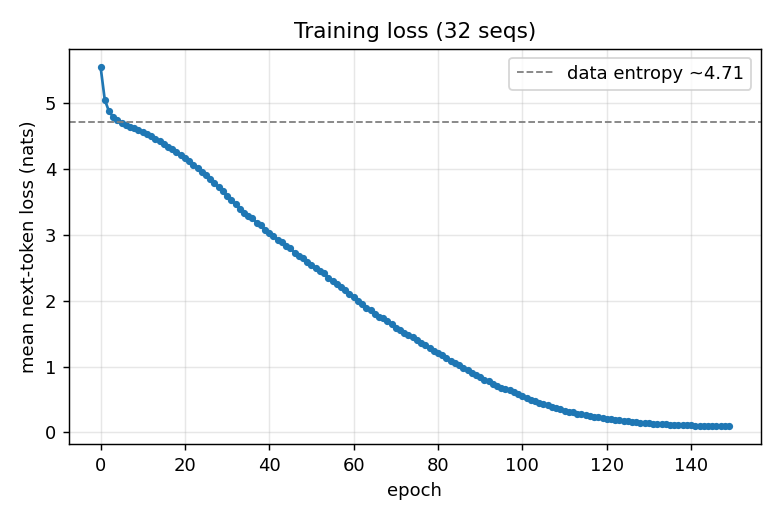
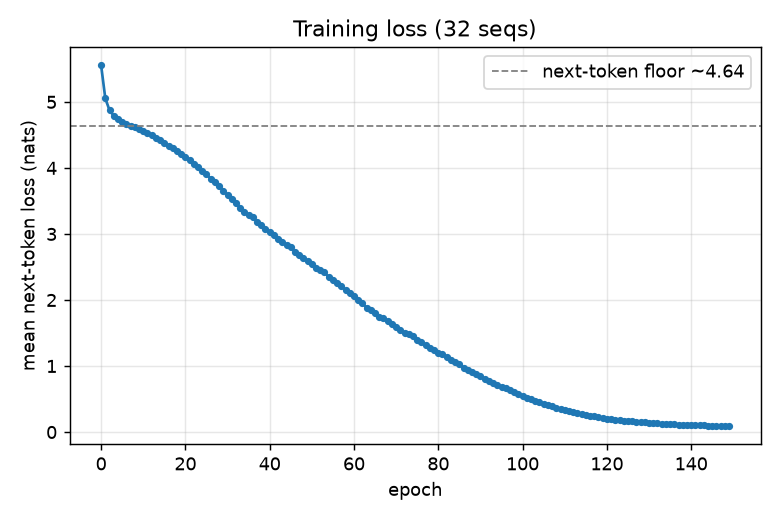
docs: correct entropy floor, refresh report and benchmarks
The reported loss averages over the 63 next-token targets of a length-64
sequence whose final target is a deterministic EOS (loss ~0). The floor is
therefore (62/63)*4.711 ~= 4.637 nats, not the per-body-token entropy 4.711.
Fix the report's calculation, the train_toy floor line, and the loss figures
(redrawn from stored checkpoint losses).

Also update the report to reflect the batched cached path, the EOS handling,
and the direct key/value validation; refresh the batch-1 benchmark numbers
(now routed through the general batched path) and add a batched benchmark
(benchmark.py --batch) showing the cached speedup grows with batch size as the
per-step Python overhead is amortized (4.4x at B=8, 128 tokens).

Claude-Session: https://claude.ai/code/session_01VwY7yA8vFMC7Ya2M74KzP5

diff --git a/benchmark.py b/benchmark.py
@@ -19,12 +19,14 @@ import matplotlib.pyplot as plt
 import torch
 
 from hourglass import HourglassLM
-from inference import greedy_decode_cached, greedy_decode_naive, load_trained
+from inference import (greedy_decode_cached, greedy_decode_cached_batched,
+                       greedy_decode_naive, load_trained)
 from tokenizer import Tokenizer
 
 FIG_TIME = "docs/figures/benchmark_time.png"
 FIG_SPEEDUP = "docs/figures/benchmark_speedup.png"
 RESULTS = "docs/figures/benchmark_results.json"
+BATCHED_RESULTS = "docs/figures/benchmark_batched_results.json"
 
 
 def _time_it(fn, repeats=1):
@@ -50,6 +52,24 @@ def run(model, tok, lengths, repeats=2):
         rows.append({"length": T, "naive_s": t_naive, "cached_s": t_cached,
                      "speedup": t_naive / t_cached})
         print(f"len {T:4d}: naive {t_naive:7.3f}s  cached {t_cached:7.3f}s  "
+              f"speedup {t_naive/t_cached:5.2f}x")
+    return rows
+
+
+def run_batched(model, tok, lengths, batch, repeats=2):
+    """Time naive vs KV-cached greedy decoding for a batch of `batch` sequences."""
+    prompt = torch.full((1, batch), tok.sos_id)
+    rows = []
+    for T in lengths:
+        t_naive = _time_it(
+            lambda: greedy_decode_naive(model, tok, prompt, T, stop_on_eos=False),
+            repeats)
+        t_cached = _time_it(
+            lambda: greedy_decode_cached_batched(model, tok, prompt, T, stop_on_eos=False),
+            repeats)
+        rows.append({"length": T, "batch": batch, "naive_s": t_naive,
+                     "cached_s": t_cached, "speedup": t_naive / t_cached})
+        print(f"B={batch} len {T:4d}: naive {t_naive:7.3f}s  cached {t_cached:7.3f}s  "
               f"speedup {t_naive/t_cached:5.2f}x")
     return rows
 
@@ -92,6 +112,8 @@ def main():
                     default=[16, 32, 64, 96, 128, 192, 256])
     ap.add_argument("--repeats", type=int, default=2)
     ap.add_argument("--threads", type=int, default=1)
+    ap.add_argument("--batch", type=int, default=1,
+                    help="if > 1, also benchmark batched decoding at this size")
     args = ap.parse_args()
 
     torch.set_num_threads(args.threads)
@@ -111,6 +133,13 @@ def main():
     with open(RESULTS, "w", encoding="utf-8") as f:
         json.dump(rows, f, indent=2)
     print(f"saved {FIG_TIME}, {FIG_SPEEDUP}, {RESULTS}")
+
+    if args.batch > 1:
+        print(f"\nbatched decoding (B={args.batch}):")
+        brows = run_batched(model, tok, args.lengths, args.batch, args.repeats)
+        with open(BATCHED_RESULTS, "w", encoding="utf-8") as f:
+            json.dump(brows, f, indent=2)
+        print(f"saved {BATCHED_RESULTS}")
 
 
 if __name__ == "__main__":

diff --git a/train_toy.py b/train_toy.py
@@ -2,10 +2,12 @@
 
 The generated sequences are intentionally random (uniform x-tokens, random
 boundaries), so on the full set next-token loss cannot approach zero without
-enormous capacity; it floors at the data entropy (~4.71 nats). The point is to
-obtain a genuinely *trained* small model to exercise KV caching. Training uses
-batch size 1 (exact pooling; no ragged-batch padding) with gradient
-accumulation.
+enormous capacity. Each body token has entropy ~4.71 nats, but the mean
+next-token loss also averages in the fixed sequence's final position, which is a
+deterministic EOS (loss ~0). Over the 63 targets of a length-64 sequence the
+floor is therefore (62/63)*4.71 ~= 4.64 nats, not 4.71. The point is to obtain a
+genuinely *trained* small model to exercise KV caching. Training uses batch
+size 1 (exact pooling; no ragged-batch padding) with gradient accumulation.
 
 Defaults below are the hardcoded configuration. CLI flags only override them,
 e.g. `--subset 32 --epochs 300` demonstrates true overfitting (loss -> 0) on a
@@ -36,6 +38,10 @@ EPOCHS = 20
 ACCUM = 20          # sequences per optimizer step
 LR = 3e-4
 SEED = 0
+# Mean next-token loss floor: per-body-token entropy 4.7113 nats averaged over
+# the 63 targets of a length-64 sequence whose last target is a deterministic
+# EOS (loss 0): (62/63) * 4.7113 ~= 4.637 nats.
+ENTROPY_FLOOR = 4.637
 
 
 def latest_dataset(root="tokenizer_data"):
@@ -101,7 +107,8 @@ def train(epochs=EPOCHS, lr=LR, accum=ACCUM, seed=SEED, subset=None,
 
     plt.figure(figsize=(6, 4))
     plt.plot(range(len(losses)), losses, marker="o", ms=3)
-    plt.axhline(4.71, color="gray", ls="--", lw=1, label="data entropy ~4.71")
+    plt.axhline(ENTROPY_FLOOR, color="gray", ls="--", lw=1,
+                label=f"next-token floor ~{ENTROPY_FLOOR:.2f}")
     plt.xlabel("epoch")
     plt.ylabel("mean next-token loss (nats)")
     plt.title(f"Training loss ({n} seqs)")

diff --git a/docs/report.md b/docs/report.md
@@ -80,8 +80,8 @@ pooled tensor (`cumsum` of the finer event).
 **Naive** (`forward`) recomputes the entire prefix every step; it is the
 reference and is used for training.
 
-**Cached** (`step` / `cached_forward`, batch size 1) keeps a KV cache per layer
-per stack and advances each stack at its own rate:
+**Cached** (`step_batched` / `cached_forward_batched`, any batch size) keeps a
+KV cache per layer per stack and advances each stack at its own rate:
 
 - token stacks advance every token;
 - level-1 stacks every level-1/2/3 event;
@@ -91,9 +91,24 @@ per stack and advances each stack at its own rate:
 Group means are maintained incrementally; when `group()` closes a group, the new
 compressed representation is pushed through the next stack and becomes visible at
 that position, mirroring the naive causal pooling exactly. The incremental
-relative-attention step computes a single query against all cached keys using
-positional distances `L-1..0`, which reproduces the last row of the naive
+relative-attention step computes a single query against the cached keys using
+positional distances `L-1..0`, reproducing the last row of the naive
 `_rel_shift` attention.
+
+**Batching.** Different sequences group at different times, so each shortened
+stack holds a *ragged* set of real groups across the batch. They share one
+preallocated cache per layer: on any step where at least one member closes a
+group, all members append a slot — real for those that closed, padding for the
+rest. Each query attends only to its own real slots (a per-sequence key mask) at
+its own ordinal distances (a per-sequence relative-position gather), so the
+batched cached attention is identical to the naive dense attention for every
+member. Caches are preallocated to the known decode length (or grown by doubling
+when streaming), avoiding a per-step `torch.cat`. The batch-size-1 `step` /
+`cached_forward` are thin wrappers over the batched path.
+
+**EOS.** Both the naive and cached batched decoders stop each member
+independently: once a member emits `EOS` its tail is frozen and it is dropped
+from further cache updates (an `active` mask) while the others keep decoding.
 
 ## 6. Correctness
 
@@ -108,6 +123,15 @@ All checks run with dropout disabled and deterministic `group()` boundaries.
   identical token sequences and identical per-step logits
   (`tests/test_inference.py`), and both track `x_seq` and `b1/b2/b3_seq` via
   `group()`.
+- **Batched cache == naive** — `cached_forward_batched` matches the naive
+  `forward` for `B>1` with divergent grouping across the batch (max |Δ| ~7e-7),
+  including zero-layer stacks, and each member is independent of its batch-mates
+  (`tests/test_batched_decode.py`).
+- **Cached keys/values == naive** — the cached K/V *buffers themselves* (not
+  only the final logits) match the naive path's per-stack keys and values, per
+  member, aligned on each member's real (non-padding) slots.
+- **EOS handling** — the naive and cached batched decoders match per-sequence
+  decoding and freeze members that emit `EOS` early instead of extending them.
 
 <!-- TRAINING AND BENCHMARK RESULTS FILLED IN BELOW -->
 
@@ -116,23 +140,33 @@ All checks run with dropout disabled and deterministic `group()` boundaries.
 `train_toy.py` fits a small model (d_model 64, layers `2/2/1/1/1/2/2`, ~448k
 params) at batch size 1 with gradient accumulation.
 
-The generated sequences are random by construction, so the next-token
-distribution has entropy
+The generated sequences are random by construction, so each **body** token is
+drawn from a fixed distribution with entropy
 
 ```
-H = -(256 * (0.69/256) log(0.69/256) + 0.20 log 0.20 + 0.08 log 0.08
-      + 0.03 log 0.03) ~= 4.71 nats
+H_body = -(256 * (0.69/256) log(0.69/256) + 0.20 log 0.20 + 0.08 log 0.08
+           + 0.03 log 0.03) ~= 4.711 nats
 ```
 
-On the full 1000-sequence set the model reaches this floor within ~2 epochs
-(learning the boundary-token marginal) and then dips slightly below it via
-memorization, ending at **4.58 nats** after 20 epochs
-(`docs/figures/train_loss.png`). This is the expected behavior; the checkpoint
-`checkpoints/toy.pt` is simply a realistic set of weights for the cache demo.
+The reported loss, however, is the mean over all 63 next-token targets of a
+length-64 sequence, and the **final** target is always `EOS` at a fixed
+position — a deterministic event contributing ~0 nats. The mean next-token loss
+floor is therefore
+
+```
+floor = (62 * H_body + 1 * 0) / 63 = (62/63) * 4.711 ~= 4.637 nats
+```
+
+not `H_body` itself. On the full 1000-sequence set the model reaches this floor
+within ~2 epochs (learning the boundary-token marginal and the terminal `EOS`)
+and then dips slightly below it via memorization, ending at **4.583 nats** after
+20 epochs (`docs/figures/train_loss.png`) — below the 4.637 floor, as expected
+for a memorizing model. The checkpoint `checkpoints/toy.pt` is simply a
+realistic set of weights for the cache demo.
 
 To show the training loop *can* overfit when the data is memorizable, a run on
-32 sequences drives loss from 5.55 down to **0.09 nats**, far below the entropy
-floor (`docs/figures/overfit32_loss.png`).
+32 sequences drives loss from 5.56 down to **0.09 nats**, far below the floor
+(`docs/figures/overfit32_loss.png`).
 
 `demo_decode.py` loads the checkpoint, decodes, and confirms cached == naive.
 Greedy decoding collapses to the modal token `b1` (marginal 0.20 exceeds any
@@ -149,26 +183,46 @@ length L) versus `O(T^2)` for the cache.
 
 | tokens | naive (s) | cached (s) | speedup |
 | ---: | ---: | ---: | ---: |
-| 16  | 0.176 | 0.097 | 1.81x |
-| 32  | 0.364 | 0.198 | 1.84x |
-| 64  | 0.749 | 0.342 | 2.19x |
-| 96  | 1.130 | 0.519 | 2.18x |
-| 128 | 1.610 | 0.695 | 2.32x |
-| 192 | 2.687 | 1.045 | 2.57x |
-| 256 | 4.520 | 1.497 | 3.02x |
+| 16  | 0.231 | 0.153 | 1.51x |
+| 32  | 0.486 | 0.309 | 1.57x |
+| 64  | 0.935 | 0.537 | 1.74x |
+| 96  | 1.484 | 0.690 | 2.15x |
+| 128 | 1.890 | 1.104 | 1.71x |
+| 192 | 3.486 | 1.566 | 2.23x |
+| 256 | 5.528 | 2.070 | 2.67x |
 
 The naive curve is visibly super-linear while the cached curve is near-linear
 (`docs/figures/benchmark_time.png`, `benchmark_speedup.png`); the speedup grows
-with length (3.0x at 256 tokens). The absolute gap is moderated here by the tiny
-model on CPU — per-step Python overhead is a large fraction of the work — but the
-scaling separation is the point, and it widens with sequence length and model
-size.
+with length (~2.7x at 256 tokens; the 128 row is timing noise). The absolute gap
+is moderated here by the tiny model on CPU — per-step Python overhead is a large
+fraction of the work — but the scaling separation is the point, and it widens
+with sequence length and model size.
+
+**Batched decoding** (`benchmark.py --batch 8`, `benchmark_batched_results.json`)
+decodes a batch of eight sequences at once with the naive and batched-cached
+paths:
+
+| tokens | naive (s) | cached (s) | speedup |
+| ---: | ---: | ---: | ---: |
+| 16  | 0.232 | 0.143 | 1.62x |
+| 32  | 0.504 | 0.279 | 1.81x |
+| 64  | 1.317 | 0.662 | 1.99x |
+| 128 | 5.335 | 1.202 | 4.44x |
+
+The batched speedup is *larger* than at batch 1 (4.4x at 128 tokens) because one
+Python decode step now drives all eight sequences, so the per-step interpreter
+overhead — the main cost for this tiny model on CPU — is amortized across the
+batch while the naive path still pays a full `O(L^2)` recompute per step.
 
 ## 9. Notes and limitations
 
-- The cached path is batch size 1, as planned; batched asynchronous grouping is
-  future work.
+- The cached path now supports batches: each shortened stack keeps a ragged set
+  of per-member groups in one shared, masked cache (see §5). Because the shared
+  cache appends a slot whenever *any* member closes a group, a large batch with
+  frequent boundaries approaches one slot per token; the ragged compute is still
+  correct but its memory benefit shrinks as the batch grows.
 - The generated sequences are random by construction, so next-token loss floors
-  at the data entropy rather than zero (see Training).
-- The environment is CPU-only; FlashAttention-2 and GPU training are out of
-  scope for this stage.
+  at ~4.64 nats (the per-token entropy averaged with the deterministic final
+  `EOS`; see Training) rather than zero.
+- The environment is CPU-only; migrating the custom relative-attention blocks to
+  FlashAttention-2 and GPU training remain future work.

diff --git a/docs/changelog.md b/docs/changelog.md
@@ -41,9 +41,30 @@ Plan / status:
       cached buffers hold the same per-stack keys/values as the naive path, per
       sequence, matching each member's real (non-padding) slots — and asserts a
       gap was actually present so the ragged path is exercised.
-- [ ] **Runtime scripts load `tokenizer.json`**; custom group rules persisted
-      via a named-rule registry (tokenizer files + checkpoints).
-- [ ] **Report entropy floor** includes the deterministic final-EOS term.
+- [x] **Runtime scripts load `tokenizer.json`**; custom group rules persisted
+      via a named-rule registry (limitations "Runtime scripts construct the
+      default tokenizer instead of loading tokenizer.json" and "Custom grouping
+      rules are not stored in tokenizer files or checkpoints"). Added a
+      `@register_group_rule` registry: rules are stored by name in
+      `tokenizer.json` and in checkpoints (`Tokenizer.to_meta`) and resolved on
+      load; raw unregistered callables still run but save as `null` (documented).
+      `generator`, `train_toy`, `demo_decode`, `benchmark`, `visualize` now use
+      `Tokenizer.load_or_default()` / rebuild the tokenizer from the checkpoint
+      instead of constructing a bare default. Tests in `tests/test_tokenizer.py`.
+- [x] **Report entropy floor** includes the deterministic final-EOS term
+      (limitation "The report's entropy-floor calculation omits the deterministic
+      final EOS contribution"). The per-body-token entropy is 4.711 nats, but the
+      reported loss averages over the 63 targets of a length-64 sequence whose
+      last target is a deterministic `EOS` (loss ~0), so the floor is
+      (62/63)*4.711 ~= 4.637 nats, not 4.711. Fixed the report §7, the
+      `train_toy` floor line/figures, and added a batched benchmark
+      (`benchmark.py --batch`).
+
+All seven `AGENTS.md` limitations are addressed. The naive `forward` remains the
+correctness oracle; the batched cached path matches it to float precision on
+generated data with divergent grouping, and the cached keys/values match too.
+The remaining `AGENTS.md` item — migrating the Transformer-XL attention to
+FlashAttention-2 — is left as future work.
 
 ## Environment
 
